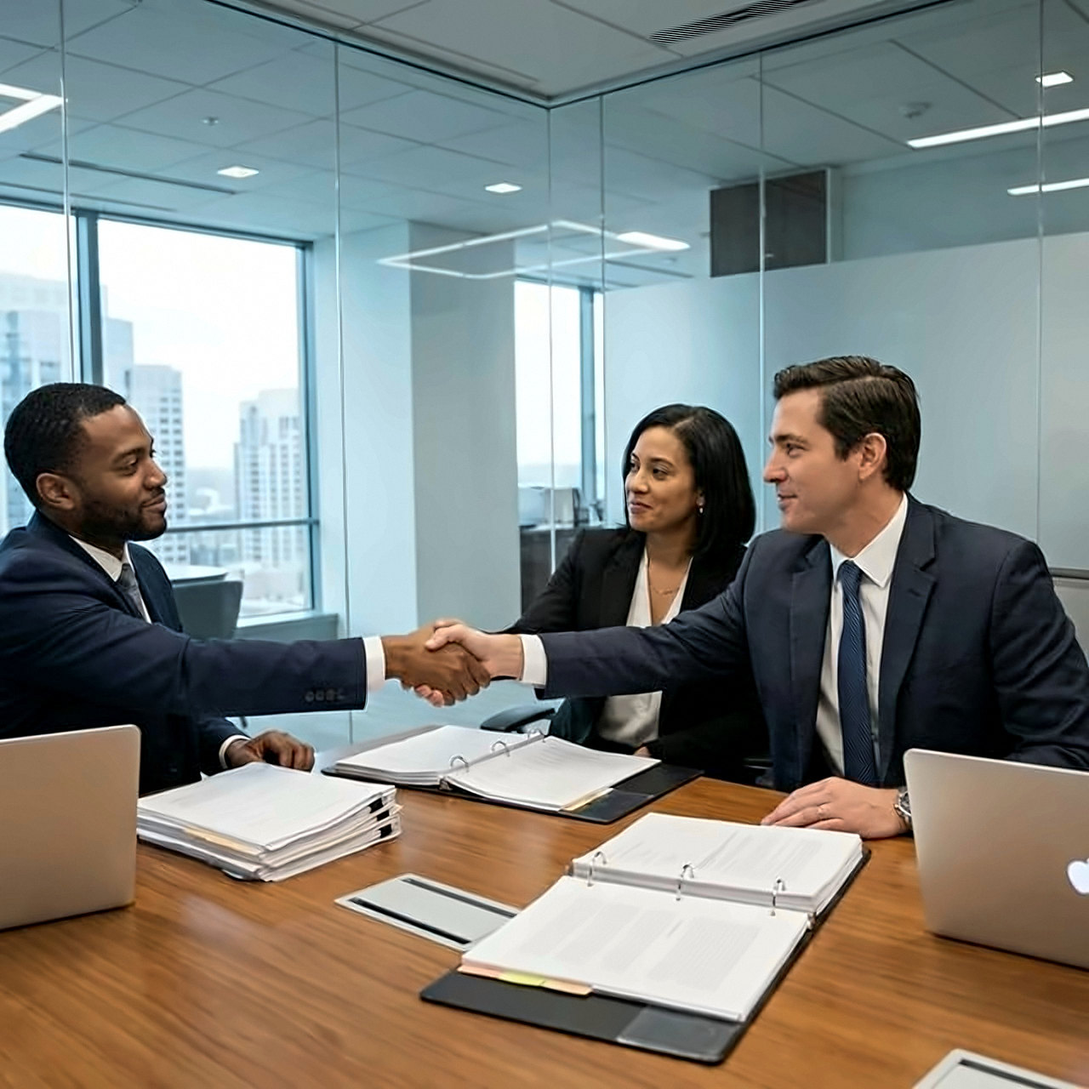
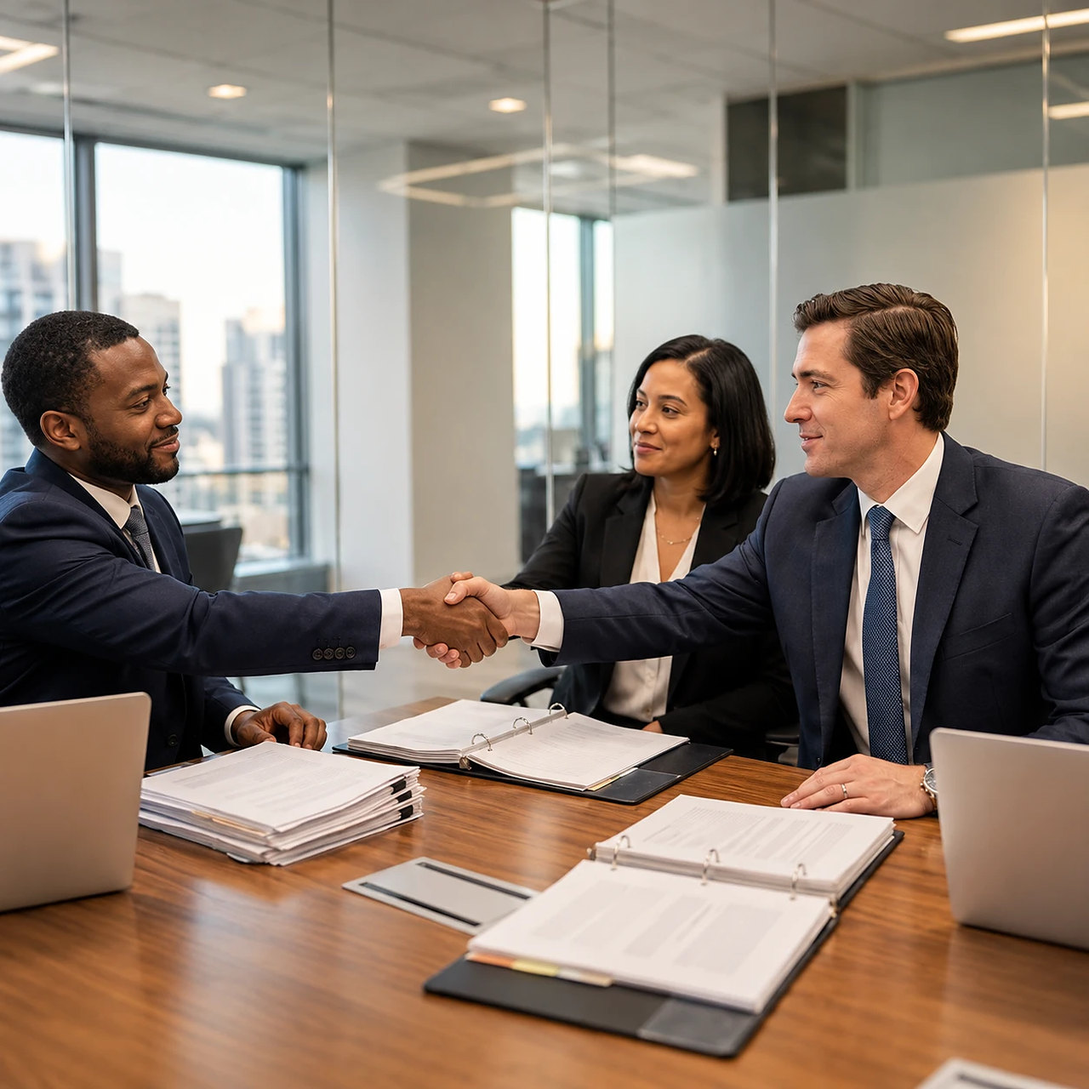
New photos: Commercial, Wills & Estates, Litigation (scales of justice)
- Picked the sharpest, artefact-free images from the ChatGPT set (sources in assets/source/)
- tools/process_new_photos.py builds 800/1280/1920/2560 versions
- Image URLs versioned so browsers fetch the new files
- Photo bands get a soft left shade so white captions stay readable

diff --git a/index.html b/index.html
@@ -10,7 +10,7 @@
 <link rel="preconnect" href="https://fonts.googleapis.com">
 <link rel="preconnect" href="https://fonts.gstatic.com" crossorigin>
 <link href="https://fonts.googleapis.com/css2?family=IBM+Plex+Mono:wght@400&family=Instrument+Serif:ital@0;1&family=Inter+Tight:wght@400;500&display=swap" rel="stylesheet">
-<link rel="stylesheet" href="styles.css?v=5.0">
+<link rel="stylesheet" href="styles.css?v=5.2">
 </head>
 <body>
 <a class="skip" href="#main">Skip to content</a>
@@ -38,7 +38,7 @@
         <div class="hero__btns"><a class="pill pill--ink" href="contact.html">Book a consultation <svg viewBox="0 0 24 24" fill="none" stroke="currentColor" stroke-width="1.6" stroke-linecap="round" stroke-linejoin="round" aria-hidden="true"><path d="M5 12h14M13 6l6 6-6 6"/></svg></a><a class="pill" href="tel:+61391084865">+61 3 9108 4865</a></div>
       </div>
     </div>
-    <figure class="frame frame--hero" data-frame><img src="assets/img/commercial-law-1920.jpg" srcset="assets/img/commercial-law-800.jpg 800w, assets/img/commercial-law-1280.jpg 1280w, assets/img/commercial-law-1920.jpg 1920w, assets/img/commercial-law-2560.jpg 2560w" sizes="100vw" alt="Bizcom Legal advising clients in a boardroom" width="1920" height="1920" decoding="async" fetchpriority="high" data-par><span class="pill frame__pill">Practical · Trusted · Clear</span>
+    <figure class="frame frame--hero" data-frame><img src="assets/img/commercial-law-1920.jpg?v=5.2" srcset="assets/img/commercial-law-800.jpg?v=5.2 800w, assets/img/commercial-law-1280.jpg?v=5.2 1280w, assets/img/commercial-law-1920.jpg?v=5.2 1920w, assets/img/commercial-law-2560.jpg?v=5.2 2560w" sizes="100vw" alt="Bizcom Legal advising clients in a boardroom" width="1920" height="1920" decoding="async" fetchpriority="high" data-par><span class="pill frame__pill">Practical · Trusted · Clear</span>
       <figcaption class="frame__cap"><span class="lbl">Lynn Saldanha — Principal Legal Practitioner</span><span class="lbl">LLB · GDLP · BA</span></figcaption></figure>
   </div>
 </section>
@@ -56,7 +56,7 @@
 <section class="sec--tight" id="practice">
   <div class="wrap">
     <div class="ptitle rv"><h2>Practice</h2></div>
-    <figure class="frame frame--band" data-frame><img src="assets/img/property-law-1920.jpg" srcset="assets/img/property-law-800.jpg 800w, assets/img/property-law-1280.jpg 1280w, assets/img/property-law-1920.jpg 1920w, assets/img/property-law-2560.jpg 2560w" sizes="100vw" alt="" width="1920" height="1920" decoding="async" data-par loading="lazy">
+    <figure class="frame frame--band" data-frame><img src="assets/img/property-law-1920.jpg?v=5.2" srcset="assets/img/property-law-800.jpg?v=5.2 800w, assets/img/property-law-1280.jpg?v=5.2 1280w, assets/img/property-law-1920.jpg?v=5.2 1920w, assets/img/property-law-2560.jpg?v=5.2 2560w" sizes="100vw" alt="" width="1920" height="1920" decoding="async" data-par loading="lazy">
       <figcaption class="frame__cap"><p class="frame__q">Five capabilities, one accountable practice.</p><span class="lbl">From boardroom to settlement</span></figcaption></figure>
   </div>
 </section>
@@ -68,35 +68,35 @@
       <div class="acc__i open">
         <button class="acc__h" aria-expanded="true"><span class="acc__n">01</span><span class="acc__t">Commercial</span><span class="acc__x"><svg viewBox="0 0 24 24" fill="none" stroke="currentColor" stroke-width="1.6" stroke-linecap="round" aria-hidden="true"><path d="M12 5v14M5 12h14"/></svg></span></button>
         <div class="acc__b"><div><div class="acc__body">
-          <div class="acc__img"><img src="assets/img/commercial-law-1920.jpg" srcset="assets/img/commercial-law-800.jpg 800w, assets/img/commercial-law-1280.jpg 1280w, assets/img/commercial-law-1920.jpg 1920w, assets/img/commercial-law-2560.jpg 2560w" sizes="(max-width:760px) 100vw, 26vw" alt="" width="1920" height="1920" decoding="async" loading="lazy"></div>
+          <div class="acc__img"><img src="assets/img/commercial-law-1920.jpg?v=5.2" srcset="assets/img/commercial-law-800.jpg?v=5.2 800w, assets/img/commercial-law-1280.jpg?v=5.2 1280w, assets/img/commercial-law-1920.jpg?v=5.2 1920w, assets/img/commercial-law-2560.jpg?v=5.2 2560w" sizes="(max-width:760px) 100vw, 26vw" alt="" width="1920" height="1920" decoding="async" loading="lazy"></div>
           <div class="acc__txt"><p>Day-to-day and transactional counsel that keeps your business moving — from formation documents through to recovery and disputes.</p><ul class="rows"><li><span>Business Conveyancing</span><span>01</span></li><li><span>Leases &amp; Licensing</span><span>02</span></li><li><span>Contracts</span><span>03</span></li><li><span>E-commerce policies</span><span>04</span></li><li><span>Dispute Resolution</span><span>05</span></li><li><span>Debt Collection</span><span>06</span></li><li><span>Franchising</span><span>07</span></li><li><span>Employment law</span><span>08</span></li></ul><a class="pill pill--ink" style="align-self:flex-start" href="services.html#commercial">Explore commercial <svg viewBox="0 0 24 24" fill="none" stroke="currentColor" stroke-width="1.6" stroke-linecap="round" stroke-linejoin="round" aria-hidden="true"><path d="M5 12h14M13 6l6 6-6 6"/></svg></a></div>
         </div></div></div>
       </div>
       <div class="acc__i">
         <button class="acc__h" aria-expanded="false"><span class="acc__n">02</span><span class="acc__t">Property</span><span class="acc__x"><svg viewBox="0 0 24 24" fill="none" stroke="currentColor" stroke-width="1.6" stroke-linecap="round" aria-hidden="true"><path d="M12 5v14M5 12h14"/></svg></span></button>
         <div class="acc__b"><div><div class="acc__body">
-          <div class="acc__img"><img src="assets/img/property-law-1920.jpg" srcset="assets/img/property-law-800.jpg 800w, assets/img/property-law-1280.jpg 1280w, assets/img/property-law-1920.jpg 1920w, assets/img/property-law-2560.jpg 2560w" sizes="(max-width:760px) 100vw, 26vw" alt="" width="1920" height="1920" decoding="async" loading="lazy"></div>
+          <div class="acc__img"><img src="assets/img/property-law-1920.jpg?v=5.2" srcset="assets/img/property-law-800.jpg?v=5.2 800w, assets/img/property-law-1280.jpg?v=5.2 1280w, assets/img/property-law-1920.jpg?v=5.2 1920w, assets/img/property-law-2560.jpg?v=5.2 2560w" sizes="(max-width:760px) 100vw, 26vw" alt="" width="1920" height="1920" decoding="async" loading="lazy"></div>
           <div class="acc__txt"><p>Conveyancing and property advisory across the eastern states, including guidance for investors and lenders.</p><ul class="rows"><li><span>Conveyancing — VIC, NSW, QLD, WA, ACT</span><span>01</span></li><li><span>Investment property</span><span>02</span></li><li><span>Guarantor &amp; private lending advice</span><span>03</span></li></ul><a class="pill pill--ink" style="align-self:flex-start" href="services.html#property">Explore property <svg viewBox="0 0 24 24" fill="none" stroke="currentColor" stroke-width="1.6" stroke-linecap="round" stroke-linejoin="round" aria-hidden="true"><path d="M5 12h14M13 6l6 6-6 6"/></svg></a></div>
         </div></div></div>
       </div>
       <div class="acc__i">
         <button class="acc__h" aria-expanded="false"><span class="acc__n">03</span><span class="acc__t">Family Law</span><span class="acc__x"><svg viewBox="0 0 24 24" fill="none" stroke="currentColor" stroke-width="1.6" stroke-linecap="round" aria-hidden="true"><path d="M12 5v14M5 12h14"/></svg></span></button>
         <div class="acc__b"><div><div class="acc__body">
-          <div class="acc__img"><img src="assets/img/family-law-1920.jpg" srcset="assets/img/family-law-800.jpg 800w, assets/img/family-law-1280.jpg 1280w, assets/img/family-law-1920.jpg 1920w, assets/img/family-law-2560.jpg 2560w" sizes="(max-width:760px) 100vw, 26vw" alt="" width="1920" height="1920" decoding="async" loading="lazy"></div>
+          <div class="acc__img"><img src="assets/img/family-law-1920.jpg?v=5.2" srcset="assets/img/family-law-800.jpg?v=5.2 800w, assets/img/family-law-1280.jpg?v=5.2 1280w, assets/img/family-law-1920.jpg?v=5.2 1920w, assets/img/family-law-2560.jpg?v=5.2 2560w" sizes="(max-width:760px) 100vw, 26vw" alt="" width="1920" height="1920" decoding="async" loading="lazy"></div>
           <div class="acc__txt"><p>Considered, supportive advice on financial and parenting matters — formalised properly and built to last.</p><ul class="rows"><li><span>Property settlements</span><span>01</span></li><li><span>Binding Financial Agreements / Consent Orders</span><span>02</span></li><li><span>Parenting &amp; Child Support</span><span>03</span></li></ul><a class="pill pill--ink" style="align-self:flex-start" href="services.html#family-law">Explore family law <svg viewBox="0 0 24 24" fill="none" stroke="currentColor" stroke-width="1.6" stroke-linecap="round" stroke-linejoin="round" aria-hidden="true"><path d="M5 12h14M13 6l6 6-6 6"/></svg></a></div>
         </div></div></div>
       </div>
       <div class="acc__i">
         <button class="acc__h" aria-expanded="false"><span class="acc__n">04</span><span class="acc__t">Litigation</span><span class="acc__x"><svg viewBox="0 0 24 24" fill="none" stroke="currentColor" stroke-width="1.6" stroke-linecap="round" aria-hidden="true"><path d="M12 5v14M5 12h14"/></svg></span></button>
         <div class="acc__b"><div><div class="acc__body">
-          <div class="acc__img"><img src="assets/img/litigation-1920.jpg" srcset="assets/img/litigation-800.jpg 800w, assets/img/litigation-1280.jpg 1280w, assets/img/litigation-1920.jpg 1920w, assets/img/litigation-2560.jpg 2560w" sizes="(max-width:760px) 100vw, 26vw" alt="" width="1920" height="1920" decoding="async" loading="lazy"></div>
+          <div class="acc__img"><img src="assets/img/litigation-1920.jpg?v=5.2" srcset="assets/img/litigation-800.jpg?v=5.2 800w, assets/img/litigation-1280.jpg?v=5.2 1280w, assets/img/litigation-1920.jpg?v=5.2 1920w, assets/img/litigation-2560.jpg?v=5.2 2560w" sizes="(max-width:760px) 100vw, 26vw" alt="" width="1920" height="1920" decoding="async" loading="lazy"></div>
           <div class="acc__txt"><p>Representation and dispute resolution across Victorian tribunals and courts, at every level.</p><ul class="rows"><li><span>VCAT</span><span>01</span></li><li><span>Magistrates, County &amp; Supreme Court of Victoria</span><span>02</span></li><li><span>Small Claims &amp; Consumer Law</span><span>03</span></li></ul><a class="pill pill--ink" style="align-self:flex-start" href="services.html#litigation">Explore litigation <svg viewBox="0 0 24 24" fill="none" stroke="currentColor" stroke-width="1.6" stroke-linecap="round" stroke-linejoin="round" aria-hidden="true"><path d="M5 12h14M13 6l6 6-6 6"/></svg></a></div>
         </div></div></div>
       </div>
       <div class="acc__i">
         <button class="acc__h" aria-expanded="false"><span class="acc__n">05</span><span class="acc__t">Wills &amp; Estates</span><span class="acc__x"><svg viewBox="0 0 24 24" fill="none" stroke="currentColor" stroke-width="1.6" stroke-linecap="round" aria-hidden="true"><path d="M12 5v14M5 12h14"/></svg></span></button>
         <div class="acc__b"><div><div class="acc__body">
-          <div class="acc__img"><img src="assets/img/wills-estates-1920.jpg" srcset="assets/img/wills-estates-800.jpg 800w, assets/img/wills-estates-1280.jpg 1280w, assets/img/wills-estates-1920.jpg 1920w, assets/img/wills-estates-2560.jpg 2560w" sizes="(max-width:760px) 100vw, 26vw" alt="" width="1920" height="1920" decoding="async" loading="lazy"></div>
+          <div class="acc__img"><img src="assets/img/wills-estates-1920.jpg?v=5.2" srcset="assets/img/wills-estates-800.jpg?v=5.2 800w, assets/img/wills-estates-1280.jpg?v=5.2 1280w, assets/img/wills-estates-1920.jpg?v=5.2 1920w, assets/img/wills-estates-2560.jpg?v=5.2 2560w" sizes="(max-width:760px) 100vw, 26vw" alt="" width="1920" height="1920" decoding="async" loading="lazy"></div>
           <div class="acc__txt"><p>Estate planning and administration handled with care — from your will today to probate when it matters.</p><ul class="rows"><li><span>Wills &amp; Powers of Attorney</span><span>01</span></li><li><span>Estate Planning</span><span>02</span></li><li><span>Probate</span><span>03</span></li><li><span>Letters of Administration</span><span>04</span></li></ul><a class="pill pill--ink" style="align-self:flex-start" href="services.html#wills-estates">Explore wills &amp; estates <svg viewBox="0 0 24 24" fill="none" stroke="currentColor" stroke-width="1.6" stroke-linecap="round" stroke-linejoin="round" aria-hidden="true"><path d="M5 12h14M13 6l6 6-6 6"/></svg></a></div>
         </div></div></div>
       </div>
@@ -117,7 +117,7 @@
 
 <section class="sec--tight">
   <div class="wrap">
-    <figure class="frame frame--band" data-frame><img src="assets/img/litigation-1920.jpg" srcset="assets/img/litigation-800.jpg 800w, assets/img/litigation-1280.jpg 1280w, assets/img/litigation-1920.jpg 1920w, assets/img/litigation-2560.jpg 2560w" sizes="100vw" alt="" width="1920" height="1920" decoding="async" data-par loading="lazy"><span class="pill frame__pill">The Bizcom approach</span>
+    <figure class="frame frame--band" data-frame><img src="assets/img/litigation-1920.jpg?v=5.2" srcset="assets/img/litigation-800.jpg?v=5.2 800w, assets/img/litigation-1280.jpg?v=5.2 1280w, assets/img/litigation-1920.jpg?v=5.2 1920w, assets/img/litigation-2560.jpg?v=5.2 2560w" sizes="100vw" alt="" width="1920" height="1920" decoding="async" data-par loading="lazy"><span class="pill frame__pill">The Bizcom approach</span>
       <figcaption class="frame__cap"><p class="frame__q">Quality advice across a range of industries — focused on the best outcomes for you.</p></figcaption></figure>
   </div>
 </section>
@@ -197,6 +197,6 @@
 </footer>
 <a class="wa" href="https://wa.me/61414822108" target="_blank" rel="noopener" aria-label="Message Bizcom Legal on WhatsApp"><svg viewBox="0 0 24 24" aria-hidden="true"><path d="M12.04 2c-5.46 0-9.91 4.45-9.91 9.91 0 1.75.46 3.45 1.32 4.95L2 22l5.25-1.38a9.9 9.9 0 0 0 4.79 1.22c5.46 0 9.91-4.45 9.91-9.91S17.5 2 12.04 2zm5.8 14.06c-.24.68-1.42 1.3-1.95 1.35-.5.05-.97.23-3.28-.68-2.78-1.1-4.55-3.95-4.69-4.13-.14-.18-1.12-1.49-1.12-2.85 0-1.35.71-2.02.96-2.29.25-.27.55-.34.73-.34l.52.01c.17 0 .39-.06.61.47.24.55.8 1.92.87 2.06.07.14.12.3.02.48-.09.18-.14.3-.27.46l-.41.48c-.14.14-.28.29-.12.56.16.27.71 1.17 1.52 1.9 1.05.93 1.93 1.22 2.2 1.36.27.14.43.11.59-.07.16-.18.68-.79.86-1.07.18-.27.36-.23.61-.14.25.09 1.59.75 1.86.89.27.14.45.2.52.32.06.11.06.66-.18 1.33z"/></svg></a>
 <script src="https://cdn.jsdelivr.net/npm/lenis@1.1.13/dist/lenis.min.js" defer></script>
-<script src="script.js?v=5.0" defer></script>
+<script src="script.js?v=5.2" defer></script>
 </body>
 </html>

diff --git a/services.html b/services.html
@@ -10,7 +10,7 @@
 <link rel="preconnect" href="https://fonts.googleapis.com">
 <link rel="preconnect" href="https://fonts.gstatic.com" crossorigin>
 <link href="https://fonts.googleapis.com/css2?family=IBM+Plex+Mono:wght@400&family=Instrument+Serif:ital@0;1&family=Inter+Tight:wght@400;500&display=swap" rel="stylesheet">
-<link rel="stylesheet" href="styles.css?v=5.0">
+<link rel="stylesheet" href="styles.css?v=5.2">
 </head>
 <body>
 <a class="skip" href="#main">Skip to content</a>
@@ -38,23 +38,23 @@
 <div class="wrap" data-spy>
   <section class="svc" id="commercial">
     <div class="svc__l rv"><div class="eyebrow"><span class="eyebrow__n">01</span><span class="eyebrow__t">Commercial</span><i class="eyebrow__line" aria-hidden="true"></i></div><h2>Business &amp; Commercial</h2><p>Day-to-day and transactional counsel that keeps your business moving — from formation documents through to recovery and disputes.</p><a class="pill pill--ink" href="contact.html">Enquire <svg viewBox="0 0 24 24" fill="none" stroke="currentColor" stroke-width="1.6" stroke-linecap="round" stroke-linejoin="round" aria-hidden="true"><path d="M5 12h14M13 6l6 6-6 6"/></svg></a></div>
-    <div class="svc__r"><figure class="frame" data-frame><img src="assets/img/commercial-law-1920.jpg" srcset="assets/img/commercial-law-800.jpg 800w, assets/img/commercial-law-1280.jpg 1280w, assets/img/commercial-law-1920.jpg 1920w, assets/img/commercial-law-2560.jpg 2560w" sizes="(max-width:860px) 100vw, 46vw" alt="Business &amp; Commercial" width="1920" height="1920" decoding="async" loading="lazy" data-par></figure><ul class="rows rv"><li><span>Business Conveyancing</span><span>01</span></li><li><span>Leases &amp; Licensing</span><span>02</span></li><li><span>Contracts</span><span>03</span></li><li><span>E-commerce policies</span><span>04</span></li><li><span>Dispute Resolution</span><span>05</span></li><li><span>Debt Collection</span><span>06</span></li><li><span>Franchising</span><span>07</span></li><li><span>Employment law</span><span>08</span></li></ul></div>
+    <div class="svc__r"><figure class="frame" data-frame><img src="assets/img/commercial-law-1920.jpg?v=5.2" srcset="assets/img/commercial-law-800.jpg?v=5.2 800w, assets/img/commercial-law-1280.jpg?v=5.2 1280w, assets/img/commercial-law-1920.jpg?v=5.2 1920w, assets/img/commercial-law-2560.jpg?v=5.2 2560w" sizes="(max-width:860px) 100vw, 46vw" alt="Business &amp; Commercial" width="1920" height="1920" decoding="async" loading="lazy" data-par></figure><ul class="rows rv"><li><span>Business Conveyancing</span><span>01</span></li><li><span>Leases &amp; Licensing</span><span>02</span></li><li><span>Contracts</span><span>03</span></li><li><span>E-commerce policies</span><span>04</span></li><li><span>Dispute Resolution</span><span>05</span></li><li><span>Debt Collection</span><span>06</span></li><li><span>Franchising</span><span>07</span></li><li><span>Employment law</span><span>08</span></li></ul></div>
   </section>
   <section class="svc" id="property">
     <div class="svc__l rv"><div class="eyebrow"><span class="eyebrow__n">02</span><span class="eyebrow__t">Property</span><i class="eyebrow__line" aria-hidden="true"></i></div><h2>Property</h2><p>Conveyancing and property advisory across the eastern states, including guidance for investors and lenders.</p><a class="pill pill--ink" href="contact.html">Enquire <svg viewBox="0 0 24 24" fill="none" stroke="currentColor" stroke-width="1.6" stroke-linecap="round" stroke-linejoin="round" aria-hidden="true"><path d="M5 12h14M13 6l6 6-6 6"/></svg></a></div>
-    <div class="svc__r"><figure class="frame" data-frame><img src="assets/img/property-law-1920.jpg" srcset="assets/img/property-law-800.jpg 800w, assets/img/property-law-1280.jpg 1280w, assets/img/property-law-1920.jpg 1920w, assets/img/property-law-2560.jpg 2560w" sizes="(max-width:860px) 100vw, 46vw" alt="Property" width="1920" height="1920" decoding="async" loading="lazy" data-par></figure><ul class="rows rv"><li><span>Conveyancing — VIC, NSW, QLD, WA, ACT</span><span>01</span></li><li><span>Investment property</span><span>02</span></li><li><span>Guarantor &amp; private lending advice</span><span>03</span></li></ul></div>
+    <div class="svc__r"><figure class="frame" data-frame><img src="assets/img/property-law-1920.jpg?v=5.2" srcset="assets/img/property-law-800.jpg?v=5.2 800w, assets/img/property-law-1280.jpg?v=5.2 1280w, assets/img/property-law-1920.jpg?v=5.2 1920w, assets/img/property-law-2560.jpg?v=5.2 2560w" sizes="(max-width:860px) 100vw, 46vw" alt="Property" width="1920" height="1920" decoding="async" loading="lazy" data-par></figure><ul class="rows rv"><li><span>Conveyancing — VIC, NSW, QLD, WA, ACT</span><span>01</span></li><li><span>Investment property</span><span>02</span></li><li><span>Guarantor &amp; private lending advice</span><span>03</span></li></ul></div>
   </section>
   <section class="svc" id="family-law">
     <div class="svc__l rv"><div class="eyebrow"><span class="eyebrow__n">03</span><span class="eyebrow__t">Family Law</span><i class="eyebrow__line" aria-hidden="true"></i></div><h2>Family Law</h2><p>Considered, supportive advice on financial and parenting matters — formalised properly and built to last.</p><a class="pill pill--ink" href="contact.html">Enquire <svg viewBox="0 0 24 24" fill="none" stroke="currentColor" stroke-width="1.6" stroke-linecap="round" stroke-linejoin="round" aria-hidden="true"><path d="M5 12h14M13 6l6 6-6 6"/></svg></a></div>
-    <div class="svc__r"><figure class="frame" data-frame><img src="assets/img/family-law-1920.jpg" srcset="assets/img/family-law-800.jpg 800w, assets/img/family-law-1280.jpg 1280w, assets/img/family-law-1920.jpg 1920w, assets/img/family-law-2560.jpg 2560w" sizes="(max-width:860px) 100vw, 46vw" alt="Family Law" width="1920" height="1920" decoding="async" loading="lazy" data-par></figure><ul class="rows rv"><li><span>Property settlements</span><span>01</span></li><li><span>Binding Financial Agreements / Consent Orders</span><span>02</span></li><li><span>Parenting &amp; Child Support</span><span>03</span></li></ul></div>
+    <div class="svc__r"><figure class="frame" data-frame><img src="assets/img/family-law-1920.jpg?v=5.2" srcset="assets/img/family-law-800.jpg?v=5.2 800w, assets/img/family-law-1280.jpg?v=5.2 1280w, assets/img/family-law-1920.jpg?v=5.2 1920w, assets/img/family-law-2560.jpg?v=5.2 2560w" sizes="(max-width:860px) 100vw, 46vw" alt="Family Law" width="1920" height="1920" decoding="async" loading="lazy" data-par></figure><ul class="rows rv"><li><span>Property settlements</span><span>01</span></li><li><span>Binding Financial Agreements / Consent Orders</span><span>02</span></li><li><span>Parenting &amp; Child Support</span><span>03</span></li></ul></div>
   </section>
   <section class="svc" id="litigation">
     <div class="svc__l rv"><div class="eyebrow"><span class="eyebrow__n">04</span><span class="eyebrow__t">Litigation</span><i class="eyebrow__line" aria-hidden="true"></i></div><h2>Litigation</h2><p>Representation and dispute resolution across Victorian tribunals and courts, at every level.</p><a class="pill pill--ink" href="contact.html">Enquire <svg viewBox="0 0 24 24" fill="none" stroke="currentColor" stroke-width="1.6" stroke-linecap="round" stroke-linejoin="round" aria-hidden="true"><path d="M5 12h14M13 6l6 6-6 6"/></svg></a></div>
-    <div class="svc__r"><figure class="frame" data-frame><img src="assets/img/litigation-1920.jpg" srcset="assets/img/litigation-800.jpg 800w, assets/img/litigation-1280.jpg 1280w, assets/img/litigation-1920.jpg 1920w, assets/img/litigation-2560.jpg 2560w" sizes="(max-width:860px) 100vw, 46vw" alt="Litigation" width="1920" height="1920" decoding="async" loading="lazy" data-par></figure><ul class="rows rv"><li><span>VCAT</span><span>01</span></li><li><span>Magistrates, County &amp; Supreme Court of Victoria</span><span>02</span></li><li><span>Small Claims &amp; Consumer Law</span><span>03</span></li></ul></div>
+    <div class="svc__r"><figure class="frame" data-frame><img src="assets/img/litigation-1920.jpg?v=5.2" srcset="assets/img/litigation-800.jpg?v=5.2 800w, assets/img/litigation-1280.jpg?v=5.2 1280w, assets/img/litigation-1920.jpg?v=5.2 1920w, assets/img/litigation-2560.jpg?v=5.2 2560w" sizes="(max-width:860px) 100vw, 46vw" alt="Litigation" width="1920" height="1920" decoding="async" loading="lazy" data-par></figure><ul class="rows rv"><li><span>VCAT</span><span>01</span></li><li><span>Magistrates, County &amp; Supreme Court of Victoria</span><span>02</span></li><li><span>Small Claims &amp; Consumer Law</span><span>03</span></li></ul></div>
   </section>
   <section class="svc" id="wills-estates">
     <div class="svc__l rv"><div class="eyebrow"><span class="eyebrow__n">05</span><span class="eyebrow__t">Wills &amp; Estates</span><i class="eyebrow__line" aria-hidden="true"></i></div><h2>Wills &amp; Estates</h2><p>Estate planning and administration handled with care — from your will today to probate when it matters.</p><a class="pill pill--ink" href="contact.html">Enquire <svg viewBox="0 0 24 24" fill="none" stroke="currentColor" stroke-width="1.6" stroke-linecap="round" stroke-linejoin="round" aria-hidden="true"><path d="M5 12h14M13 6l6 6-6 6"/></svg></a></div>
-    <div class="svc__r"><figure class="frame" data-frame><img src="assets/img/wills-estates-1920.jpg" srcset="assets/img/wills-estates-800.jpg 800w, assets/img/wills-estates-1280.jpg 1280w, assets/img/wills-estates-1920.jpg 1920w, assets/img/wills-estates-2560.jpg 2560w" sizes="(max-width:860px) 100vw, 46vw" alt="Wills &amp; Estates" width="1920" height="1920" decoding="async" loading="lazy" data-par></figure><ul class="rows rv"><li><span>Wills &amp; Powers of Attorney</span><span>01</span></li><li><span>Estate Planning</span><span>02</span></li><li><span>Probate</span><span>03</span></li><li><span>Letters of Administration</span><span>04</span></li></ul></div>
+    <div class="svc__r"><figure class="frame" data-frame><img src="assets/img/wills-estates-1920.jpg?v=5.2" srcset="assets/img/wills-estates-800.jpg?v=5.2 800w, assets/img/wills-estates-1280.jpg?v=5.2 1280w, assets/img/wills-estates-1920.jpg?v=5.2 1920w, assets/img/wills-estates-2560.jpg?v=5.2 2560w" sizes="(max-width:860px) 100vw, 46vw" alt="Wills &amp; Estates" width="1920" height="1920" decoding="async" loading="lazy" data-par></figure><ul class="rows rv"><li><span>Wills &amp; Powers of Attorney</span><span>01</span></li><li><span>Estate Planning</span><span>02</span></li><li><span>Probate</span><span>03</span></li><li><span>Letters of Administration</span><span>04</span></li></ul></div>
   </section>
 </div>
 
@@ -112,6 +112,6 @@
 </footer>
 <a class="wa" href="https://wa.me/61414822108" target="_blank" rel="noopener" aria-label="Message Bizcom Legal on WhatsApp"><svg viewBox="0 0 24 24" aria-hidden="true"><path d="M12.04 2c-5.46 0-9.91 4.45-9.91 9.91 0 1.75.46 3.45 1.32 4.95L2 22l5.25-1.38a9.9 9.9 0 0 0 4.79 1.22c5.46 0 9.91-4.45 9.91-9.91S17.5 2 12.04 2zm5.8 14.06c-.24.68-1.42 1.3-1.95 1.35-.5.05-.97.23-3.28-.68-2.78-1.1-4.55-3.95-4.69-4.13-.14-.18-1.12-1.49-1.12-2.85 0-1.35.71-2.02.96-2.29.25-.27.55-.34.73-.34l.52.01c.17 0 .39-.06.61.47.24.55.8 1.92.87 2.06.07.14.12.3.02.48-.09.18-.14.3-.27.46l-.41.48c-.14.14-.28.29-.12.56.16.27.71 1.17 1.52 1.9 1.05.93 1.93 1.22 2.2 1.36.27.14.43.11.59-.07.16-.18.68-.79.86-1.07.18-.27.36-.23.61-.14.25.09 1.59.75 1.86.89.27.14.45.2.52.32.06.11.06.66-.18 1.33z"/></svg></a>
 <script src="https://cdn.jsdelivr.net/npm/lenis@1.1.13/dist/lenis.min.js" defer></script>
-<script src="script.js?v=5.0" defer></script>
+<script src="script.js?v=5.2" defer></script>
 </body>
 </html>

diff --git a/about.html b/about.html
@@ -10,7 +10,7 @@
 <link rel="preconnect" href="https://fonts.googleapis.com">
 <link rel="preconnect" href="https://fonts.gstatic.com" crossorigin>
 <link href="https://fonts.googleapis.com/css2?family=IBM+Plex+Mono:wght@400&family=Instrument+Serif:ital@0;1&family=Inter+Tight:wght@400;500&display=swap" rel="stylesheet">
-<link rel="stylesheet" href="styles.css?v=5.0">
+<link rel="stylesheet" href="styles.css?v=5.2">
 </head>
 <body>
 <a class="skip" href="#main">Skip to content</a>
@@ -34,7 +34,7 @@
     <div class="phead__p"><p class="rv">A Victorian firm with a practical approach — advising on commercial law, property and conveyancing (VIC, NSW, QLD, WA &amp; ACT), family law, dispute resolution and litigation (VCAT &amp; the courts), and wills &amp; estates.</p></div>
   </div>
 </section>
-<section class="sec--tight"><div class="wrap"><figure class="frame frame--band" data-frame><img src="assets/img/family-law-1920.jpg" srcset="assets/img/family-law-800.jpg 800w, assets/img/family-law-1280.jpg 1280w, assets/img/family-law-1920.jpg 1920w, assets/img/family-law-2560.jpg 2560w" sizes="100vw" alt="" width="1920" height="1920" decoding="async" data-par><span class="pill frame__pill">Admitted — Supreme Court, 2009</span></figure></div></section>
+<section class="sec--tight"><div class="wrap"><figure class="frame frame--band" data-frame><img src="assets/img/family-law-1920.jpg?v=5.2" srcset="assets/img/family-law-800.jpg?v=5.2 800w, assets/img/family-law-1280.jpg?v=5.2 1280w, assets/img/family-law-1920.jpg?v=5.2 1920w, assets/img/family-law-2560.jpg?v=5.2 2560w" sizes="100vw" alt="" width="1920" height="1920" decoding="async" data-par><span class="pill frame__pill">Admitted — Supreme Court, 2009</span></figure></div></section>
 <section class="sec">
   <div class="wrap">
     <div class="shead"><div class="eyebrow"><span class="eyebrow__n">02</span><span class="eyebrow__t">The Principal</span><i class="eyebrow__line" aria-hidden="true"></i></div></div>
@@ -116,6 +116,6 @@
 </footer>
 <a class="wa" href="https://wa.me/61414822108" target="_blank" rel="noopener" aria-label="Message Bizcom Legal on WhatsApp"><svg viewBox="0 0 24 24" aria-hidden="true"><path d="M12.04 2c-5.46 0-9.91 4.45-9.91 9.91 0 1.75.46 3.45 1.32 4.95L2 22l5.25-1.38a9.9 9.9 0 0 0 4.79 1.22c5.46 0 9.91-4.45 9.91-9.91S17.5 2 12.04 2zm5.8 14.06c-.24.68-1.42 1.3-1.95 1.35-.5.05-.97.23-3.28-.68-2.78-1.1-4.55-3.95-4.69-4.13-.14-.18-1.12-1.49-1.12-2.85 0-1.35.71-2.02.96-2.29.25-.27.55-.34.73-.34l.52.01c.17 0 .39-.06.61.47.24.55.8 1.92.87 2.06.07.14.12.3.02.48-.09.18-.14.3-.27.46l-.41.48c-.14.14-.28.29-.12.56.16.27.71 1.17 1.52 1.9 1.05.93 1.93 1.22 2.2 1.36.27.14.43.11.59-.07.16-.18.68-.79.86-1.07.18-.27.36-.23.61-.14.25.09 1.59.75 1.86.89.27.14.45.2.52.32.06.11.06.66-.18 1.33z"/></svg></a>
 <script src="https://cdn.jsdelivr.net/npm/lenis@1.1.13/dist/lenis.min.js" defer></script>
-<script src="script.js?v=5.0" defer></script>
+<script src="script.js?v=5.2" defer></script>
 </body>
 </html>

diff --git a/privacy.html b/privacy.html
@@ -10,7 +10,7 @@
 <link rel="preconnect" href="https://fonts.googleapis.com">
 <link rel="preconnect" href="https://fonts.gstatic.com" crossorigin>
 <link href="https://fonts.googleapis.com/css2?family=IBM+Plex+Mono:wght@400&family=Instrument+Serif:ital@0;1&family=Inter+Tight:wght@400;500&display=swap" rel="stylesheet">
-<link rel="stylesheet" href="styles.css?v=5.0">
+<link rel="stylesheet" href="styles.css?v=5.2">
 </head>
 <body>
 <a class="skip" href="#main">Skip to content</a>
@@ -132,6 +132,6 @@
 </footer>
 <a class="wa" href="https://wa.me/61414822108" target="_blank" rel="noopener" aria-label="Message Bizcom Legal on WhatsApp"><svg viewBox="0 0 24 24" aria-hidden="true"><path d="M12.04 2c-5.46 0-9.91 4.45-9.91 9.91 0 1.75.46 3.45 1.32 4.95L2 22l5.25-1.38a9.9 9.9 0 0 0 4.79 1.22c5.46 0 9.91-4.45 9.91-9.91S17.5 2 12.04 2zm5.8 14.06c-.24.68-1.42 1.3-1.95 1.35-.5.05-.97.23-3.28-.68-2.78-1.1-4.55-3.95-4.69-4.13-.14-.18-1.12-1.49-1.12-2.85 0-1.35.71-2.02.96-2.29.25-.27.55-.34.73-.34l.52.01c.17 0 .39-.06.61.47.24.55.8 1.92.87 2.06.07.14.12.3.02.48-.09.18-.14.3-.27.46l-.41.48c-.14.14-.28.29-.12.56.16.27.71 1.17 1.52 1.9 1.05.93 1.93 1.22 2.2 1.36.27.14.43.11.59-.07.16-.18.68-.79.86-1.07.18-.27.36-.23.61-.14.25.09 1.59.75 1.86.89.27.14.45.2.52.32.06.11.06.66-.18 1.33z"/></svg></a>
 <script src="https://cdn.jsdelivr.net/npm/lenis@1.1.13/dist/lenis.min.js" defer></script>
-<script src="script.js?v=5.0" defer></script>
+<script src="script.js?v=5.2" defer></script>
 </body>
 </html>

diff --git a/resources.html b/resources.html
@@ -10,7 +10,7 @@
 <link rel="preconnect" href="https://fonts.googleapis.com">
 <link rel="preconnect" href="https://fonts.gstatic.com" crossorigin>
 <link href="https://fonts.googleapis.com/css2?family=IBM+Plex+Mono:wght@400&family=Instrument+Serif:ital@0;1&family=Inter+Tight:wght@400;500&display=swap" rel="stylesheet">
-<link rel="stylesheet" href="styles.css?v=5.0">
+<link rel="stylesheet" href="styles.css?v=5.2">
 </head>
 <body>
 <a class="skip" href="#main">Skip to content</a>
@@ -102,6 +102,6 @@
 </footer>
 <a class="wa" href="https://wa.me/61414822108" target="_blank" rel="noopener" aria-label="Message Bizcom Legal on WhatsApp"><svg viewBox="0 0 24 24" aria-hidden="true"><path d="M12.04 2c-5.46 0-9.91 4.45-9.91 9.91 0 1.75.46 3.45 1.32 4.95L2 22l5.25-1.38a9.9 9.9 0 0 0 4.79 1.22c5.46 0 9.91-4.45 9.91-9.91S17.5 2 12.04 2zm5.8 14.06c-.24.68-1.42 1.3-1.95 1.35-.5.05-.97.23-3.28-.68-2.78-1.1-4.55-3.95-4.69-4.13-.14-.18-1.12-1.49-1.12-2.85 0-1.35.71-2.02.96-2.29.25-.27.55-.34.73-.34l.52.01c.17 0 .39-.06.61.47.24.55.8 1.92.87 2.06.07.14.12.3.02.48-.09.18-.14.3-.27.46l-.41.48c-.14.14-.28.29-.12.56.16.27.71 1.17 1.52 1.9 1.05.93 1.93 1.22 2.2 1.36.27.14.43.11.59-.07.16-.18.68-.79.86-1.07.18-.27.36-.23.61-.14.25.09 1.59.75 1.86.89.27.14.45.2.52.32.06.11.06.66-.18 1.33z"/></svg></a>
 <script src="https://cdn.jsdelivr.net/npm/lenis@1.1.13/dist/lenis.min.js" defer></script>
-<script src="script.js?v=5.0" defer></script>
+<script src="script.js?v=5.2" defer></script>
 </body>
 </html>

diff --git a/contact.html b/contact.html
@@ -10,7 +10,7 @@
 <link rel="preconnect" href="https://fonts.googleapis.com">
 <link rel="preconnect" href="https://fonts.gstatic.com" crossorigin>
 <link href="https://fonts.googleapis.com/css2?family=IBM+Plex+Mono:wght@400&family=Instrument+Serif:ital@0;1&family=Inter+Tight:wght@400;500&display=swap" rel="stylesheet">
-<link rel="stylesheet" href="styles.css?v=5.0">
+<link rel="stylesheet" href="styles.css?v=5.2">
 </head>
 <body>
 <a class="skip" href="#main">Skip to content</a>
@@ -86,6 +86,6 @@
 </footer>
 <a class="wa" href="https://wa.me/61414822108" target="_blank" rel="noopener" aria-label="Message Bizcom Legal on WhatsApp"><svg viewBox="0 0 24 24" aria-hidden="true"><path d="M12.04 2c-5.46 0-9.91 4.45-9.91 9.91 0 1.75.46 3.45 1.32 4.95L2 22l5.25-1.38a9.9 9.9 0 0 0 4.79 1.22c5.46 0 9.91-4.45 9.91-9.91S17.5 2 12.04 2zm5.8 14.06c-.24.68-1.42 1.3-1.95 1.35-.5.05-.97.23-3.28-.68-2.78-1.1-4.55-3.95-4.69-4.13-.14-.18-1.12-1.49-1.12-2.85 0-1.35.71-2.02.96-2.29.25-.27.55-.34.73-.34l.52.01c.17 0 .39-.06.61.47.24.55.8 1.92.87 2.06.07.14.12.3.02.48-.09.18-.14.3-.27.46l-.41.48c-.14.14-.28.29-.12.56.16.27.71 1.17 1.52 1.9 1.05.93 1.93 1.22 2.2 1.36.27.14.43.11.59-.07.16-.18.68-.79.86-1.07.18-.27.36-.23.61-.14.25.09 1.59.75 1.86.89.27.14.45.2.52.32.06.11.06.66-.18 1.33z"/></svg></a>
 <script src="https://cdn.jsdelivr.net/npm/lenis@1.1.13/dist/lenis.min.js" defer></script>
-<script src="script.js?v=5.0" defer></script>
+<script src="script.js?v=5.2" defer></script>
 </body>
 </html>

diff --git a/styles.css b/styles.css
@@ -437,3 +437,6 @@ button[disabled]{opacity:.6;cursor:wait}
 /* footer CTA: keep pill layout (the generic .ft a{display:block} was un-centring the text) */
 .ft a.pill{display:inline-flex;align-items:center;justify-content:center;padding:0 28px;font-size:16px;line-height:1;opacity:1}
 .ft a.pill:hover{color:#fff}
+/* large photo bands: soft shade behind the caption so white text always reads, photo stays bright on the right */
+.frame--band::after{background:linear-gradient(90deg,rgba(17,18,20,.62) 0%,rgba(17,18,20,.32) 38%,rgba(17,18,20,0) 66%),linear-gradient(180deg,rgba(17,18,20,0) 55%,rgba(17,18,20,.35))}
+.frame__q{text-shadow:0 2px 24px rgba(0,0,0,.25)}

diff --git a/tools/process_new_photos.py b/tools/process_new_photos.py
@@ -1,0 +1,21 @@
+"""
+Process high-quality replacement photos (assets/source/<name>.webp, 1254px) into the site sizes.
+Native 1254px detail -> Lanczos resize + gentle sharpening only (no AI upscaling needed).
+Usage: python tools/process_new_photos.py [name ...]
+"""
+import sys
+from pathlib import Path
+from PIL import Image, ImageFilter
+
+ROOT = Path(__file__).resolve().parent.parent
+SRC, OUT = ROOT / "assets" / "source", ROOT / "assets" / "img"
+WIDTHS = [2560, 1920, 1280, 800]
+
+for name in (sys.argv[1:] or [p.stem for p in SRC.glob("*.webp")]):
+    im = Image.open(SRC / f"{name}.webp").convert("RGB")
+    for w in WIDTHS:
+        r = im.resize((w, w), Image.LANCZOS)
+        up = w / im.width
+        r = r.filter(ImageFilter.UnsharpMask(radius=0.8 * max(up, 1), percent=55 if up > 1 else 30, threshold=2))
+        r.save(OUT / f"{name}-{w}.jpg", "JPEG", quality=86, optimize=True, progressive=True, subsampling=0)
+    print(name, "done", flush=True)
